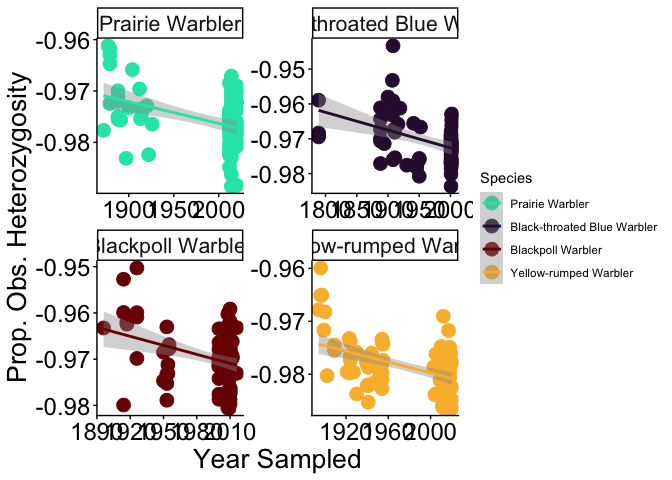
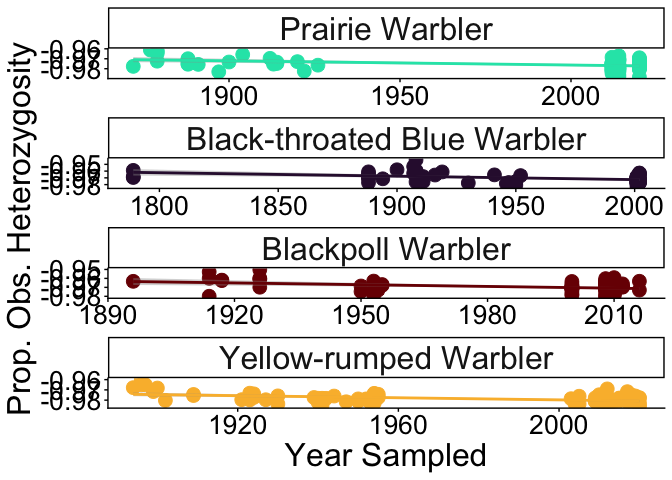
update div w fig

diff --git a/Calculate_diversity_stats.md b/Calculate_diversity_stats.md
@@ -589,7 +589,7 @@ AR <- popgenreport(warbgenind, mk.allel.rich=TRUE, mk.pdf = F)
     ## Analysing data ...
 
     ## All files are available in the folder: 
-    ## /var/folders/l5/v61lc2297358vp5r8xxjzs140000gn/T//Rtmpqc7h98/results
+    ## /var/folders/l5/v61lc2297358vp5r8xxjzs140000gn/T//Rtmp1UgM17/results
 
 ``` r
 saveRDS(AR, "results/allelic_richness_warbler_341_unlinked_variants_highcov.rds")
@@ -1020,13 +1020,14 @@ het <- ggplot(hetmeta, aes(x = YearSampled, y = prop.Ho, color = Species))+
   geom_point(size = 4.5)+
   geom_smooth(method = "lm")+
   scale_color_manual(values = colforsp)+
-  facet_wrap(~Species, scales = "free")+
+  facet_wrap(~Species, scales = "free", ncol = 1)+
   labs(x = "Year Sampled", y = "Prop. Obs. Heterozygosity")+
   theme_classic()+
-  theme(axis.title.x = element_text(size = 20),
-        axis.title.y = element_text(size = 20),
-        axis.text = element_text(size = 18),
-        strip.text = element_text(size = 16)) 
+  theme(axis.title.x = element_text(size = 24),
+        axis.title.y = element_text(size = 24),
+        axis.text = element_text(size = 20),
+        strip.text = element_text(size = 24)) +
+  theme(legend.position="none")
 
 het
 ```
@@ -1036,8 +1037,8 @@ het
 ![](Calculate_diversity_stats_files/figure-gfm/het-plot-1.png)<!-- -->
 
 ``` r
-ggsave(filename = "Het_year_byspp.png", path = "results/", 
-       plot = het, dpi = 600, height = 8, width = 12)
+ggsave(filename = "Het_year_byspp_long.png", path = "results/", 
+       plot = het, dpi = 600, height = 24, width = 7)
 ```
 
     ## `geom_smooth()` using formula = 'y ~ x'
